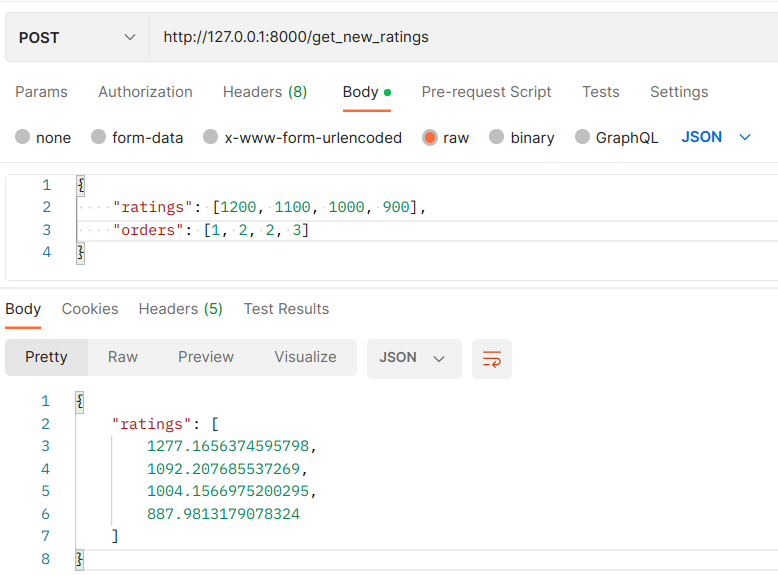
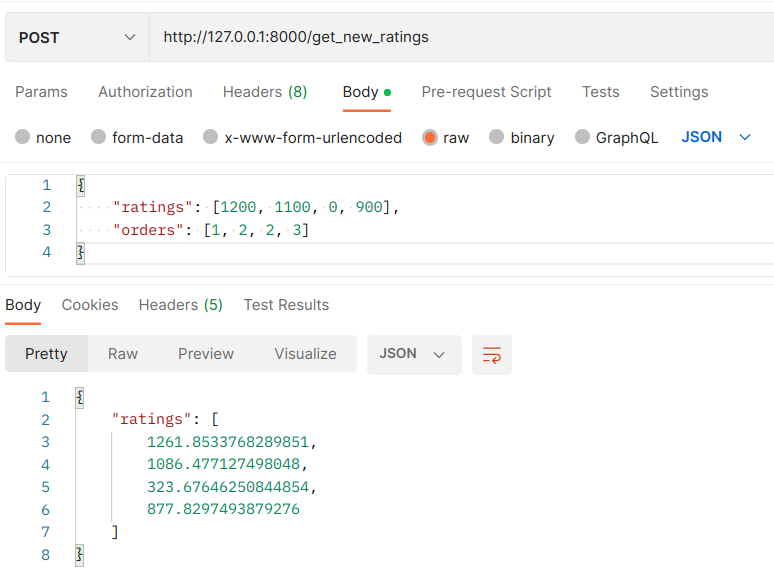
cofig k value

diff --git a/src/params.py b/src/params.py
@@ -19,4 +19,4 @@ def get_k_value(x: float) -> float:
         i = 5
     else:
         i = 6
-    return ks[-i if x < 0 else i]
+    return ks[-i if x <= 0 else i]
